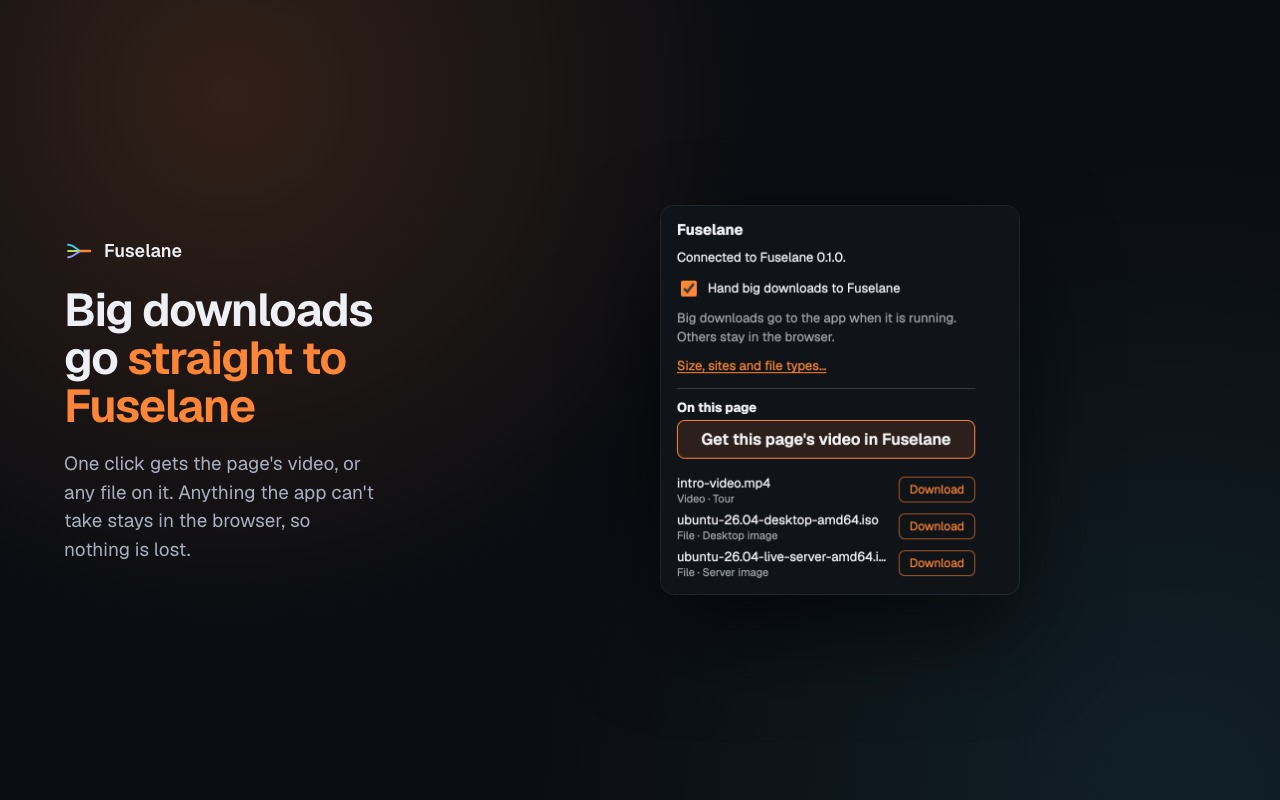
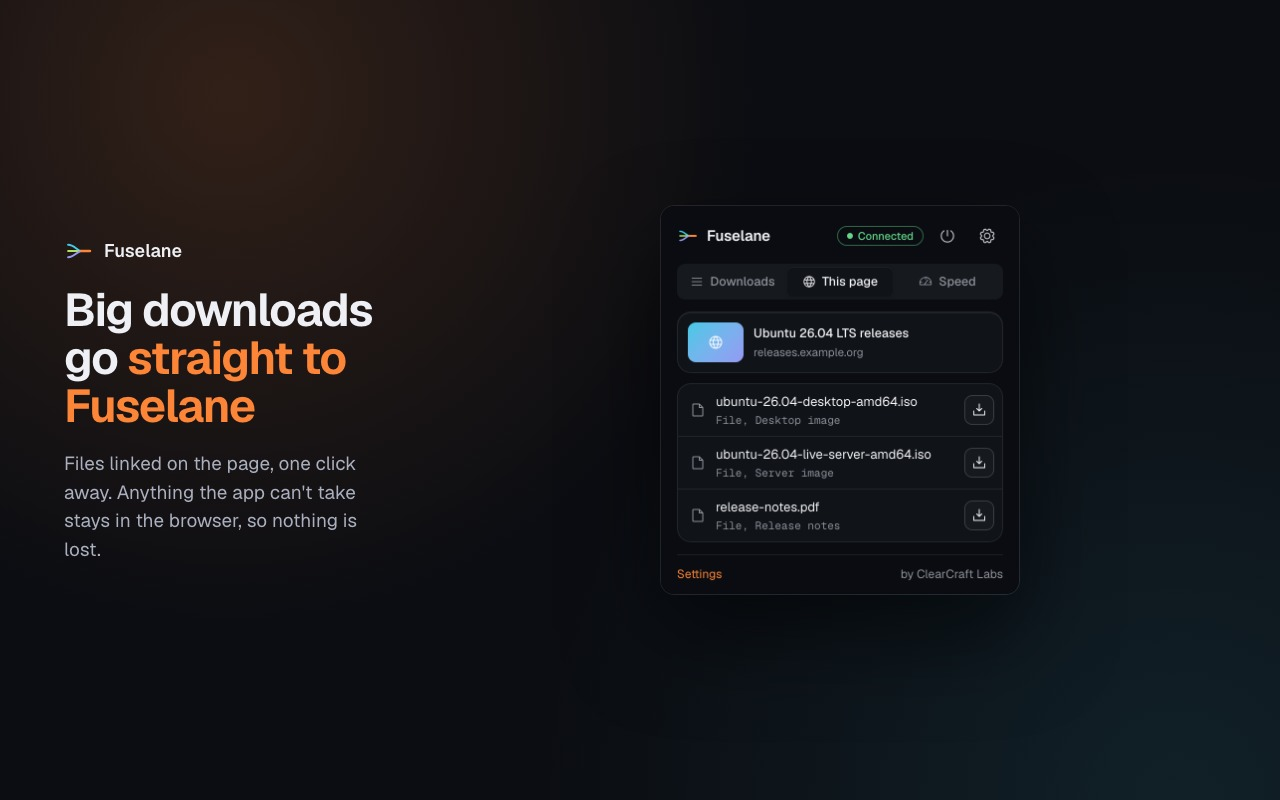
chore(extension): re-render store screenshot 2 from the tabbed popup
The old screenshot showed the video button. The renderer imported Playwright
from apps/site, which moved to its own repo, and its stub lacked the APIs the
tabbed popup uses, so it rendered an empty popup; it now opens This page.

Changed region(s): [[0.5312, 0.2812, 0.7812, 0.75], [0.0312, 0.5625, 0.2812, 0.7188], [0.6562, 0.2812, 0.7812, 0.3125]]

diff --git a/apps/extension/store/stub.js b/apps/extension/store/stub.js
@@ -2,12 +2,20 @@
 globalThis.chrome = globalThis.browser = {
   runtime: {
     id: 'store-screenshot',
+    getManifest: () => ({ version: '0.4.1' }),
+    sendMessage: async () => null,
+    onMessage: { addListener: () => {} },
     sendNativeMessage: async () => ({ type: 'pong', app: { version: '0.1.0' } }),
   },
-  storage: { local: { get: async () => ({}), set: async () => {} } },
+  storage: {
+    local: { get: async () => ({}), set: async () => {} },
+    onChanged: { addListener: () => {} },
+  },
   // A tab on a downloads page, for the "On this page" list (0.2.0).
   tabs: {
-    query: async () => [{ id: 1, url: 'https://releases.example.org/26.04/' }],
+    query: async () => [
+      { id: 1, url: 'https://releases.example.org/26.04/', title: 'Ubuntu 26.04 LTS releases' },
+    ],
   },
   scripting: {
     executeScript: async () => [
@@ -15,10 +23,11 @@ globalThis.chrome = globalThis.browser = {
         result: [
           { url: 'ubuntu-26.04-desktop-amd64.iso', kind: 'link', label: 'Desktop image' },
           { url: 'ubuntu-26.04-live-server-amd64.iso', kind: 'link', label: 'Server image' },
-          { url: 'intro-video.mp4', kind: 'video', label: 'Tour' },
+          { url: 'release-notes.pdf', kind: 'link', label: 'Release notes' },
         ],
       },
     ],
   },
   downloads: { download: async () => 1 },
+  permissions: { contains: async () => true },
 }
